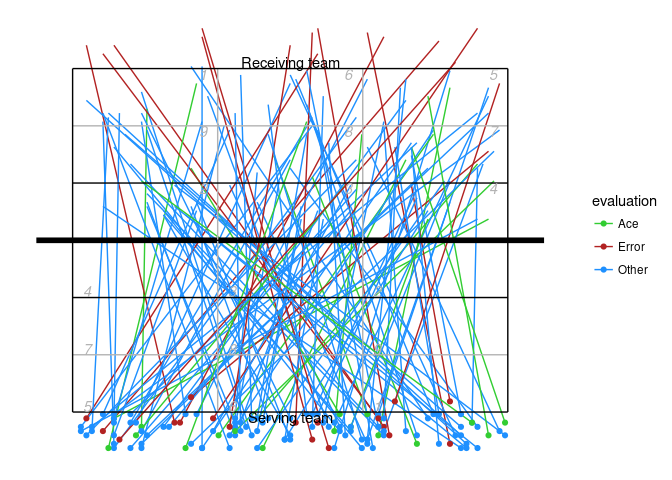
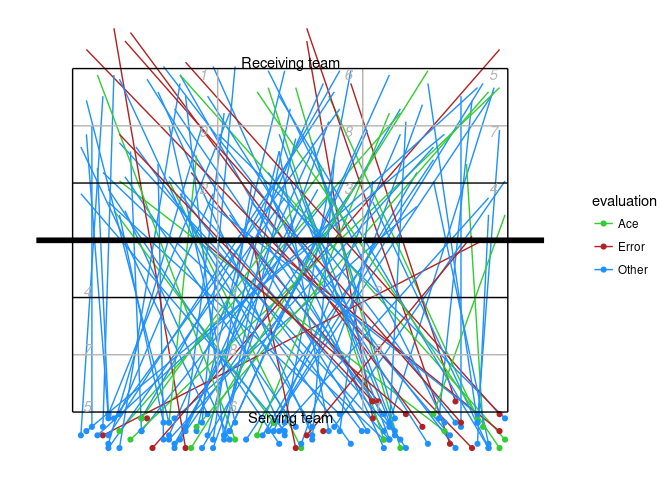
expose dv_index2xy and related functions

Changed region(s): [[0.0938, 0.0625, 0.7812, 0.9375], [0.6875, 0.0625, 0.7188, 0.0938], [0.625, 0.0938, 0.6562, 0.125]]

diff --git a/README.md b/README.md
@@ -74,8 +74,8 @@ attack_rate <- plays(x) %>% dplyr::filter(skill=="Attack") %>%
 attack_rate <- cbind(attack_rate, dv_xy(attack_rate$start_zone, end="lower"))
 
 ## for team 2, these need to be on the top half of the diagram
-tm2 <- attack_rate$team==teams(x)[2]
-attack_rate[tm2, c("x", "y")] <- dv_xy(attack_rate$start_zone, end="upper")[tm2, ]
+tm2i <- attack_rate$team==teams(x)[2]
+attack_rate[tm2i, c("x", "y")] <- dv_flip_xy(attack_rate[tm2i, c("x", "y")])
 
 ggplot(attack_rate, aes(x, y, fill=rate)) + geom_tile() + ggcourt(labels=teams(x)) +
     scale_fill_gradient2(name="Attack rate")
